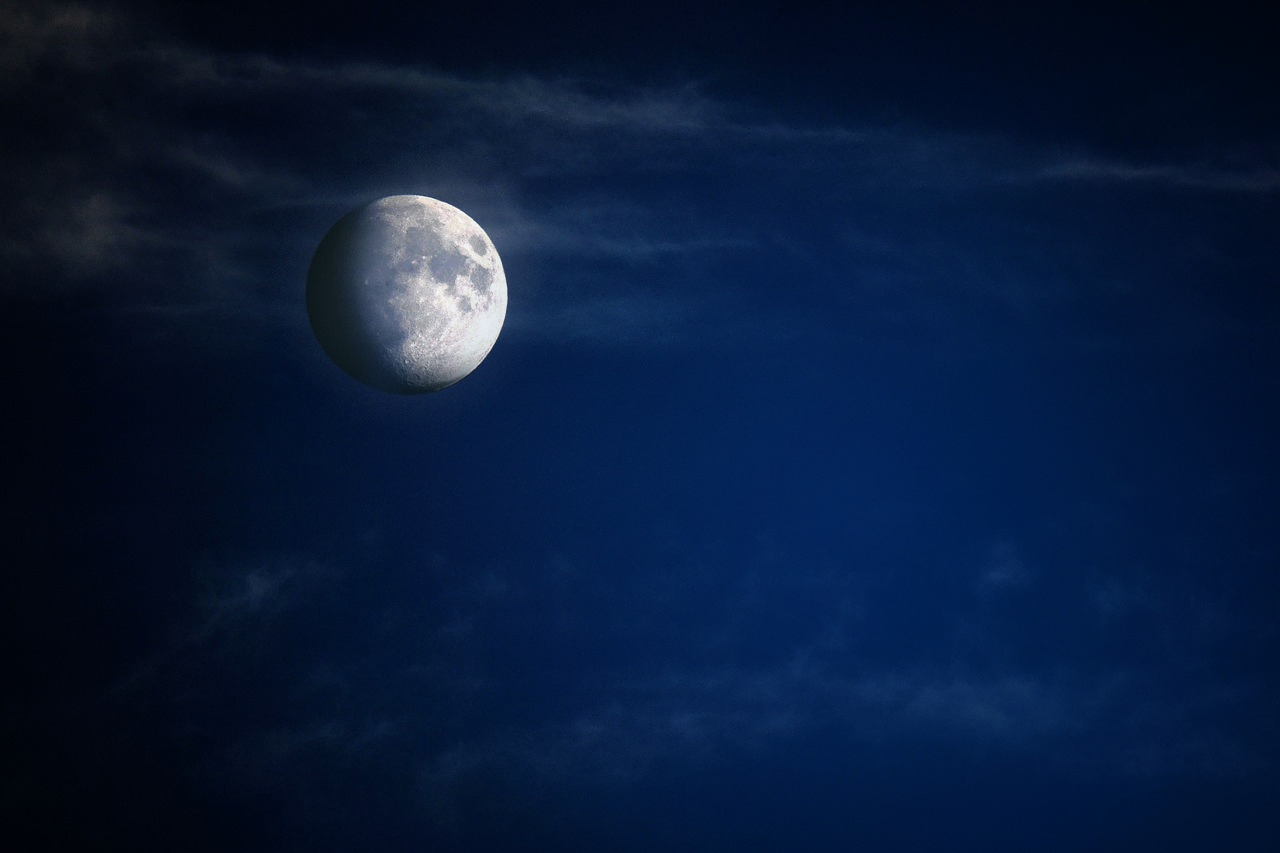
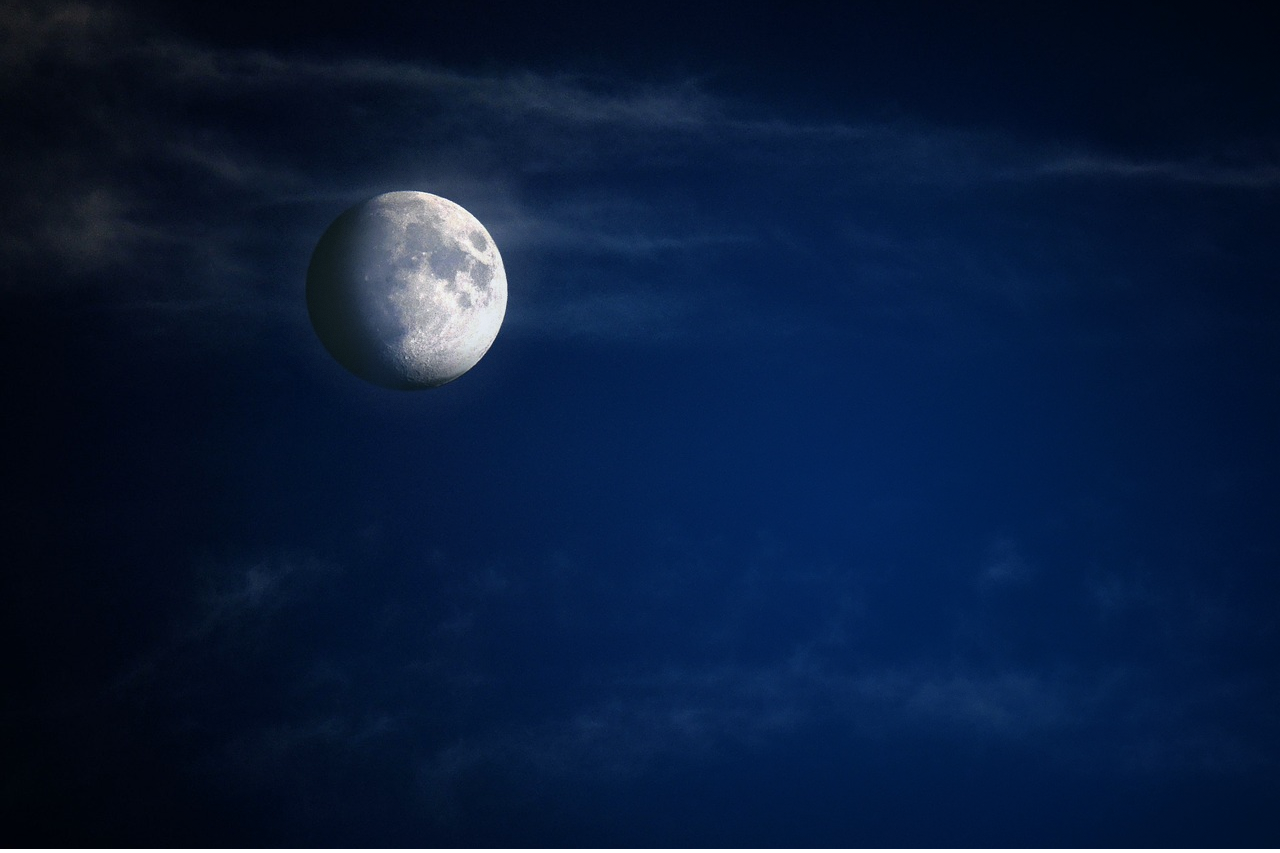
mobile fixes and more decorations !! ^-^
if ts doesnt finally work on mobile im gonna kms fr @-@

Changed region(s): [[0.0, 0.9754, 1.0, 1.0], [0.2812, 0.2134, 0.4062, 0.4572]]

diff --git a/Code/Info.html b/Code/Info.html
@@ -60,56 +60,79 @@
 
         <br>
 
-        <div class="Window" style="width: 85vw;
+        <div class="Window" style="width: 90vw;
         box-shadow: 0px 0px 4px gray;
         border: 2px gray solid;
         border-width: 0px 2px 0px;">
             <div class="Top">
                 About Me
             </div>
-            <div class="WindowContainer">
+
+            <div style="display: flex;">
+                 <div style="width: 30vw; height: 100%; margin: 10px; background-image: url(../Assets/Creanbll.png); background-repeat: no-repeat; background-position: top left; background-size: 100%;">
+                <font style="opacity: 0%;">---<br>
+                ---<br>
+                ---<br>
+                ---<br>
+                ---<br>
+                ---<br>
+                ---<br>
+                ---<br>
+                ---<br>
+                ---<br></font>
+            </div>
+
+            <div class="WindowContainer" style="margin: 20px; padding: 0px 10px 10px;">
                 <p>
-                <img src="../Assets/Creanbll.png" width="200px" style="float: left; padding: 50px 20px 725px;"><br>
+                    <font class="StarDivider">
+                        ◈⠈◦.°⚝ ★-☆-★-☆-★ ⚝°.◦⠈◈
+                    </font><br><br>
                 Hello !!
                 <br>
                 I'm Creanbl, a Finnish person with an interest in game development.<br>
                 This page is really empty because of my discomfort with sharing things about myself
-                and me not knowing much about myself, so, sorry about that.<br>
+                and me not knowing much about myself, sorry about that.<br><br>
 
+                <font class="StarDivider">
+                    ◈⠈◦.°⚝ ★-☆-★-☆-★ ⚝°.◦⠈◈<br>
+                </font>
 
                 <br><br>
                 <font style="font-size: 30px; color: white;">
                     -༄⚝-:> Info:
                 </font><br>
-                -⚝ Age: <font style="color: hotpink;">16</font><br>
+                -❀ Age: <font style="color: hotpink;">16</font><br>
                 -⚝ Height: <font style="color: gold">175cm (~5'7)</font><br>
-                -⚝ Nationality: <font style="color: teal">Finnish</font><br>
+                -❀ Nationality: <font style="color: teal">Finnish</font><br>
                 -⚝ Cursed With: <font style="color: indianred">ASD and ADHD</font><br>
-                -⚝ Favourite Colour: <font style="color: deepskyblue;">Deep Sky Blue</font><br>
+                -❀ Favourite Colour: <font style="color: deepskyblue;">Blue</font><br>
 
                 <br><br>
 
                 <font style="font-size: 30px; color: white;">
-                    -༄⚝-:> Current Interests:
+                    -༄❀-:> Current Interests:
                 </font><br>
                 -⚝ Undertale/Deltarune<br>
-                -⚝ Touhou Project<br>
+                -❀ Touhou Project<br>
                 -⚝ Hollow Knight<br>
-                -⚝ Terraria Modding<br><br>
+                -❀ Terraria Modding<br><br>
 
                 <font style="font-size: 30px; color: white;">
                     -༄⚝-:> Likes:
                 </font><br>
-                -⚝ Gaming<br>
+                -❀ Spending Time on the Internet<br>
                 -⚝ Bicycling<br><br>
                 
                 <font style="font-size: 30px; color: white;">
-                    -༄⚝-:> Dislikes:
+                    -༄❀-:> Dislikes:
                 </font><br>
                 -⚝ Generative AI<br>
-                -⚝ Telling About Myself<br><br>
+                -❀ Telling About Myself<br><br>
             </p>
             </div><br>
+            </div>
+
+           
         </div><br><br>
     </body>
 </html>

diff --git a/Code/Main.html b/Code/Main.html
@@ -88,10 +88,18 @@
                 <img src="../Assets/Logo.png" style="height: 20vw;">
             </div>
 
-            <p style="margin: 5vw; color: cornflowerblue; text-shadow: 2px 2px darkblue;">
+            <p style="margin: 3.75vw; color: cornflowerblue; text-shadow: 2px 2px darkblue;">
+                <font class="StarDivider">
+                    ◈⠈◦.°⚝ ★-☆-★-☆-★ ⚝°.◦⠈◈<br>
+                </font>
+
                 Hey and welcome to my website !!<br>
                 This website serves as my portfolio and personal site.<br>
-                I don't really have anything to show yet, so the site's pretty empty right now.
+                I don't really have anything to show yet, so the site's pretty empty right now.<br><br>
+
+                <font class="StarDivider">
+                    ◈⠈◦.°⚝ ★-☆-★-☆-★ ⚝°.◦⠈◈<br>
+                </font>
             </p>
 
                 <h2>Navigation</h2>
@@ -111,8 +119,10 @@
                     <a href="Misc.html" class="Links" style="margin-top: 50%;">
                         <img src="../Assets/Misc.png" class="LinkButton">
                     </a>
-                </div>
-
+                </div><br>
+                <font class="StarDivider">
+                    ◈⠈◦.°⚝ ★-☆-★-☆-★ ⚝°.◦⠈◈<br>
+                </font>
                 <div class="NavigationField" style="margin-bottom: 150px;">
                     <a href="https://www.youtube.com/@Creanbl" class="Links" style="margin-top: 50%;">
                         <img src="../Assets/YoutubeLogo.png" class="LinkButton">

diff --git a/Code/Resources.html b/Code/Resources.html
@@ -1,5 +1,5 @@
 <!DOCTYPE html>
-<html><div class="SmallScreenWarn">
+<html style="background-image: url(../Assets/BG06.png);"><div class="SmallScreenWarn">
         <div class="SmallScreenContain">
             Your screen is too small!
             Please enable desktop mode in your browser!
@@ -64,15 +64,18 @@
                     </div>
 
                     <div class="FancyBox">
+                        <font style="color: rgb(255, 0, 0);">Unicodes:</font><br><br>
                         ⚝<br>
                         ༄⚝-:➢<br>
                         ༄❀-:➢<br>
                         ༄⚝-:> <:-⚝༄<br>
                         ༄❀-:> <:-❀༄<br>
                         ◈⠈◦.°⚝ ⚝°.◦⠈◈<br>
+                        ◈⠈◦.°⚝ ★-☆-★-☆-★ ⚝°.◦⠈◈<br>
                     </div>
 
                     <div class="FancyBox">
+                        <font style="color: rgb(255, 0, 0);">Main Colour:</font><br><br>
                         rgb(<font style="color: rgb(98, 186, 253)">98, 186, 253</font>)<br><br>
                         <div style="width: 100%; height: 48px; background-color: rgb(98, 186, 253);"></div>
                     </div>
@@ -80,6 +83,7 @@
                     <div class="FancyBox">
                         <img src="../Assets/Creanbll.png" style="width: 100%;">
                     </div>
+
                 </div>
             </div>
         </div><br><br>

diff --git a/Code/CreationsFolder/Programming.html b/Code/CreationsFolder/Programming.html
@@ -45,30 +45,23 @@
 
         <br><br>
 
-        <div class="Window" style="width: 80vw;
+        <div class="Window" style="width: 80vw; padding-bottom: 20px;
         box-shadow: 0px 0px 4px gray;
         border: 2px gray solid;
         border-width: 0px 2px 0px;">
             <div class="Top">
-                Creations
+                Collection of things I have programmed.
             </div>
 
-            <p>
-                Collection of things I have programmed.<br>
-                VV Press VV
-            </p>
-
-            <br><br>
-
-            <!--
-            <a href="tModloader.html" class="Links">
-                <img src="../../Assets/tModloader.png" style="width: 580px; height: 120px;" class="LinkButton">
-            </a>
-            <br><br><br>-->
-
-            <a href="SimpleCalculator.html" class="Links">
-                <img src="../../Assets/Creations/Calculator.png" style="width: 50%;" class="LinkButton">
-            </a><br><br>
+            <div class="WindowContainer">
+                <p>VV Press VV</p>
+                
+                <br>
+                
+                <a href="SimpleCalculator.html" class="Links">
+                    <img src="../../Assets/Creations/Calculator.png" style="width: 50%;" class="LinkButton">
+                </a><br><br>
+            </div>
         </div><br><br>
     </body>
 </html>

diff --git a/Code/Creations.html b/Code/Creations.html
@@ -80,14 +80,18 @@
                 <button onclick="ChangePreview(1)" class="ChangePageButton" id="ChangePageButton1">1</button>
             </div>
 
-            <br><br><br>
+            <br><br>
+            <font class="StarDivider">
+                ◈⠈◦.°⚝ ★-☆-★-☆-★ ⚝°.◦⠈◈
+            </font>
+            <br>
 
             <p>Please select a category.</p>
             <div style="padding-bottom: 100px;">
                 <div style="display: flex; flex: 49,999%; justify-content: center;">
 
                     <a href="CreationsFolder/Programming.html" class="Links">
-                        Programmed Things<br>
+                        Programmed<br>
                         <img src="../Assets/Code.png" class="LinkButton">
                     </a>
                     <font style="opacity: 0%;">---</font>

diff --git a/Code/Misc.html b/Code/Misc.html
@@ -48,7 +48,7 @@
         </div>
 
         <br>
-        <div class="Window" style="width: 75vw;
+        <div class="Window" style="width: 75vw; padding-bottom: 20px;
         box-shadow: 0px 0px 4px gray;
         border: 2px gray solid;
         border-width: 0px 2px 0px;">
@@ -56,7 +56,7 @@
                 Miscellaneous
             </div>
 
-            <div style="display: flex; justify-content: center; padding-bottom: 100px;">
+            <di class="WindowContainer" style="display: flex; justify-content: center; padding-bottom: 50px;">
 
                 <div style="width: 20vw;">
                     <h3>Downloads</h3><br>

diff --git a/Code/style.css b/Code/style.css
@@ -30,6 +30,13 @@ a:link { color: rgb(98, 186, 253); }
 a:active { color: royalblue; }
 a:visited { color: slateblue; }
 
+.StarDivider {
+    font-family: arial;
+    font-size: 30px;
+    color: white;
+    text-shadow: 0px 0px 4px rgb(98, 186, 253);
+}
+
 .Title {
     font-size: 50px;
 }

diff --git a/Code/CreationsFolder/Art.html b/Code/CreationsFolder/Art.html
@@ -20,7 +20,7 @@
         }
         .row {
             flex: 15%;
-            background-color: rgba(158, 103, 1, 0.204);
+            background-color: rgba(255, 0, 0, 0.25);
         }
         img {
             background-color: transparent;
